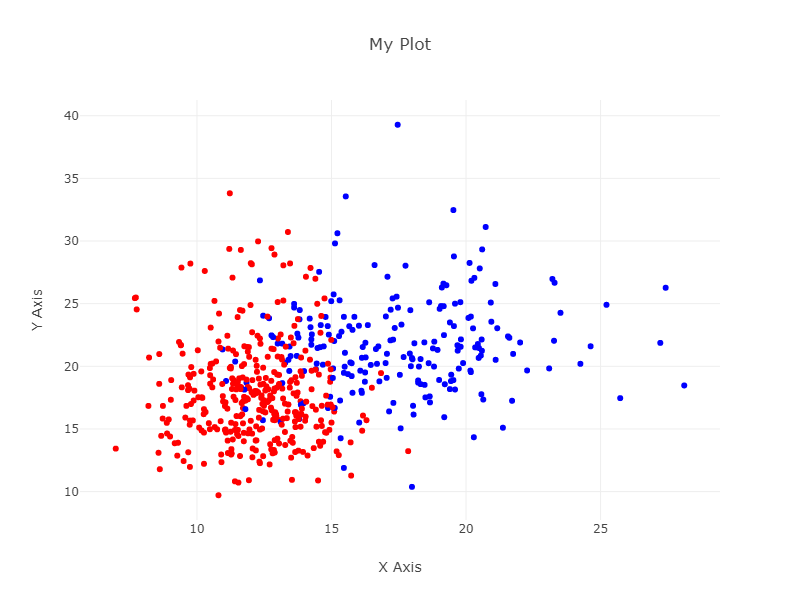
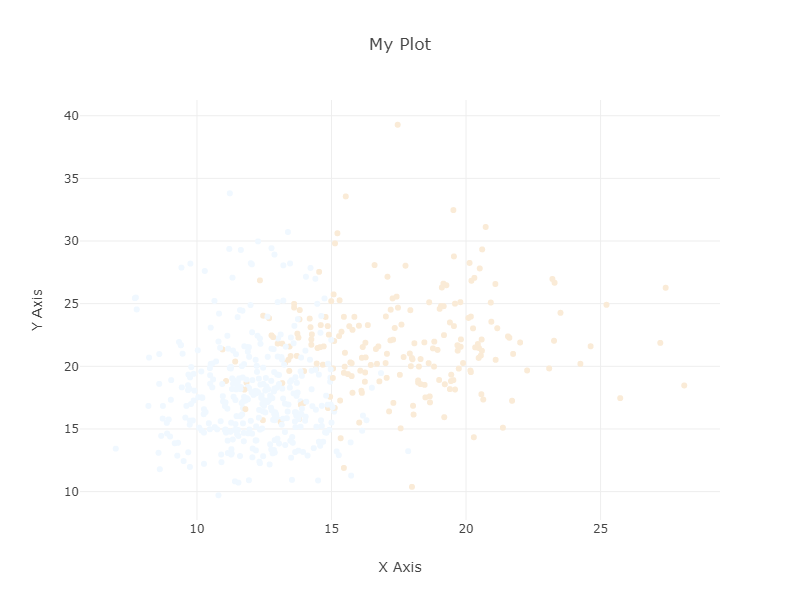
Implementing relational plot function

diff --git a/Classification-Analysis-Rust/data_frame_plotter/src/color_caster.rs b/Classification-Analysis-Rust/data_frame_plotter/src/color_caster.rs
@@ -1,0 +1,155 @@
+use plotly::color::NamedColor;
+use plotly::color::NamedColor::*;
+
+pub(crate) const  COLOR_NAMES: [NamedColor; 149] = [
+    AliceBlue,
+    AntiqueWhite,
+    Aqua,
+    Aquamarine,
+    Azure,
+    Beige,
+    Bisque,
+    Black,
+    BlanchedAlmond,
+    Blue,
+    BlueViolet,
+    Brown,
+    BurlyWood,
+    CadetBlue,
+    Chartreuse,
+    Chocolate,
+    Coral,
+    CornflowerBlue,
+    CornSilk,
+    Crimson,
+    Cyan,
+    DarkBlue,
+    DarkCyan,
+    DarkGoldenrod,
+    DarkGray,
+    DarkGreen,
+    DarkGrey,
+    DarkKhaki,
+    DarkMagenta,
+    DarkOliveGreen,
+    DarkOrange,
+    DarkOrchid,
+    DarkRed,
+    DarkSalmon,
+    DarkSeaGreen,
+    DarkSlateBlue,
+    DarkSlateGray,
+    DarkSlateGrey,
+    DarkTurquoise,
+    DarkViolet,
+    DeepPink,
+    DeepSkyBlue,
+    DimGray,
+    DimGrey,
+    DodgerBlue,
+    FireBrick,
+    FloralWhite,
+    ForestGreen,
+    Fuchsia,
+    Gainsboro,
+    GhostWhite,
+    Gold,
+    Goldenrod,
+    Gray,
+    Green,
+    GreenYellow,
+    Grey,
+    Honeydew,
+    HotPink,
+    IndianRed,
+    Indigo,
+    Ivory,
+    Khaki,
+    Lavender,
+    LavenderBlush,
+    LawnGreen,
+    LemonChiffon,
+    LightBlue,
+    LightCoral,
+    LightCyan,
+    LightGoldenrodYellow,
+    LightGray,
+    LightGreen,
+    LightGrey,
+    LightPink,
+    LightSalmon,
+    LightSeaGreen,
+    LightSkyBlue,
+    LightSlateGray,
+    LightSlateGrey,
+    LightSteelBlue,
+    LightYellow,
+    Lime,
+    LimeGreen,
+    Linen,
+    Magenta,
+    Maroon,
+    MediumAquamarine,
+    MediumBlue,
+    MediumOrchid,
+    MediumPurple,
+    MediumSeaGreen,
+    MediumSlateBlue,
+    MediumSpringGreen,
+    MediumTurquoise,
+    MediumVioletRed,
+    MidnightBlue,
+    MintCream,
+    MistyRose,
+    Moccasin,
+    NavajoWhite,
+    Navy,
+    OldLace,
+    Olive,
+    OliveDrab,
+    Orange,
+    OrangeRed,
+    Orchid,
+    PaleGoldenrod,
+    PaleGreen,
+    PaleTurquoise,
+    PaleVioletRed,
+    PapayaWhip,
+    PeachPuff,
+    Peru,
+    Pink,
+    Plum,
+    PowderBlue,
+    Purple,
+    RebeccaPurple,
+    Red,
+    RosyBrown,
+    RoyalBlue,
+    SaddleBrown,
+    Salmon,
+    SandyBrown,
+    SeaGreen,
+    Seashell,
+    Sienna,
+    Silver,
+    SkyBlue,
+    SlateBlue,
+    SlateGray,
+    SlateGrey,
+    Snow,
+    SpringGreen,
+    SteelBlue,
+    Tan,
+    Teal,
+    Thistle,
+    Tomato,
+    Turquoise,
+    Violet,
+    Wheat,
+    White,
+    WhiteSmoke,
+    Yellow,
+    YellowGreen,
+    Transparent,
+];
+

diff --git a/Classification-Analysis-Rust/KNN/src/main.rs b/Classification-Analysis-Rust/KNN/src/main.rs
@@ -1,6 +1,6 @@
-use plotly::common::{Mode, Title};
-use plotly::{ Layout, Plot};
-use plotly::Scatter;
+use plotly::common::{Title};
+use plotly::{Layout, Plot};
+use data_frame_plotter::relational_plot;
 use polars::prelude::DataFrame;
 use polars_io::prelude::{CsvReader, CsvReadOptions};
 use polars_io::SerReader;
@@ -8,22 +8,16 @@ use std::path::PathBuf;
 use plotly::ImageFormat::PNG;
 use plotly::layout::Axis;
 
-fn relational_plot(x_name: &str, y_name: &str, z_name: &str, data: &DataFrame) {
-    let x = data.column(x_name).expect("x column not found");
-    let y = data.column(y_name).unwrap();
-    let z = data.column(z_name).unwrap();
+fn plotting_relational_plot(x_name: &str, y_name: &str, z_name: &str, data: &DataFrame) {
+    // let x = data.column(x_name).expect("x column not found");
+    // let y = data.column(y_name).unwrap();
+    // let z = data.column(z_name).unwrap();
+    //
+    // let x_values: Vec<f64> = x.f64().unwrap().into_iter().map(|v| v.unwrap()).collect();
+    // let y_values: Vec<f64> = y.f64().unwrap().into_iter().map(|v| v.unwrap()).collect();
+    // let z_values: Vec<&str> = z.str().unwrap().into_iter().map(|v| v.unwrap()).collect();
 
-    let x_values: Vec<f64> = x.f64().unwrap().into_iter().map(|v| v.unwrap()).collect();
-    let y_values: Vec<f64> = y.f64().unwrap().into_iter().map(|v| v.unwrap()).collect();
-    let z_values: Vec<&str> = z.str().unwrap().into_iter().map(|v| v.unwrap()).collect();
-
-    let trace = Scatter::new(x_values, y_values)
-        .mode(Mode::Markers)
-        .marker(plotly::common::Marker::new().color_array(z_values.iter().map(|&v| match v {
-            "M" => "blue",
-            "B" => "red",
-            _ => "black",
-        }).collect()));
+    let trace = relational_plot(x_name, y_name, z_name, data);
 
     let mut plot = Plot::new();
     plot.add_trace(trace);
@@ -53,5 +47,5 @@ fn main() {
     println!("{:?}", data_frame);
 
     // Plotting the data
-    relational_plot("radius_mean", "texture_mean", "diagnosis", &data_frame);
+    plotting_relational_plot("radius_mean", "texture_mean", "diagnosis", &data_frame);
 }

diff --git a/Classification-Analysis-Rust/data_frame_plotter/src/lib.rs b/Classification-Analysis-Rust/data_frame_plotter/src/lib.rs
@@ -1,0 +1,52 @@
+//! # Custom plotting library
+//! This is a custom plotting library for Rust powered by [Plotly.js](https://plot.ly/javascript/).
+//! It tries to provide a high-level API for creating plots by imitating SNS and Matplotlib common
+//! plots
+
+use std::collections::HashMap;
+use plotly::color::NamedColor;
+use plotly::common::Marker;
+use plotly::Scatter;
+use polars::frame::DataFrame;
+use polars::prelude::DataType::Float64;
+use color_caster::COLOR_NAMES;
+mod color_caster;
+
+pub fn cast_column_to_numeric(data: &DataFrame, column_name: &str) -> Vec<f64> {
+    let column = data.column(column_name).expect("column not found");
+    column.cast(&Float64).unwrap().f64().unwrap().into_iter().map(|v| v.unwrap()).collect()
+}
+// TO DO: Add the column
+pub fn relational_plot(x_name: &str, y_name: &str, hue: &str, data: &DataFrame) -> Box<Scatter<f64, f64>> {
+
+    let z = data.column(hue).expect("hue column not found");
+
+    let categories = z.unique().unwrap();
+    let categories_colors = categories.str().unwrap()
+        .iter().enumerate().map(|(i, v)| (v.unwrap(), COLOR_NAMES[i]))
+        .collect::<HashMap<&str, NamedColor>>();
+
+    let z = z.str()
+        .unwrap().into_iter()
+        .map(|v| categories_colors[v.unwrap()]).collect::<Vec<NamedColor>>();
+
+    Scatter::new(cast_column_to_numeric(data, x_name), cast_column_to_numeric(data, y_name))
+        .mode(plotly::common::Mode::Markers)
+        .marker(Marker::new().color_array(z))
+}
+
+#[cfg(test)]
+mod tests {
+    use super::*;
+    use polars::prelude::*;
+
+    #[test]
+    fn test_relational_plot() {
+        let s0 = Series::new("a", [1, 2, 3].as_ref());
+        let s1 = Series::new("b", [1, 2, 3].as_ref());
+        let s2 = Series::new("c", ["M", "M", "B"].as_ref());
+        let df = DataFrame::new(vec![s0, s1, s2]).unwrap();
+
+        relational_plot("a", "b", "c", &df);
+    }
+}
